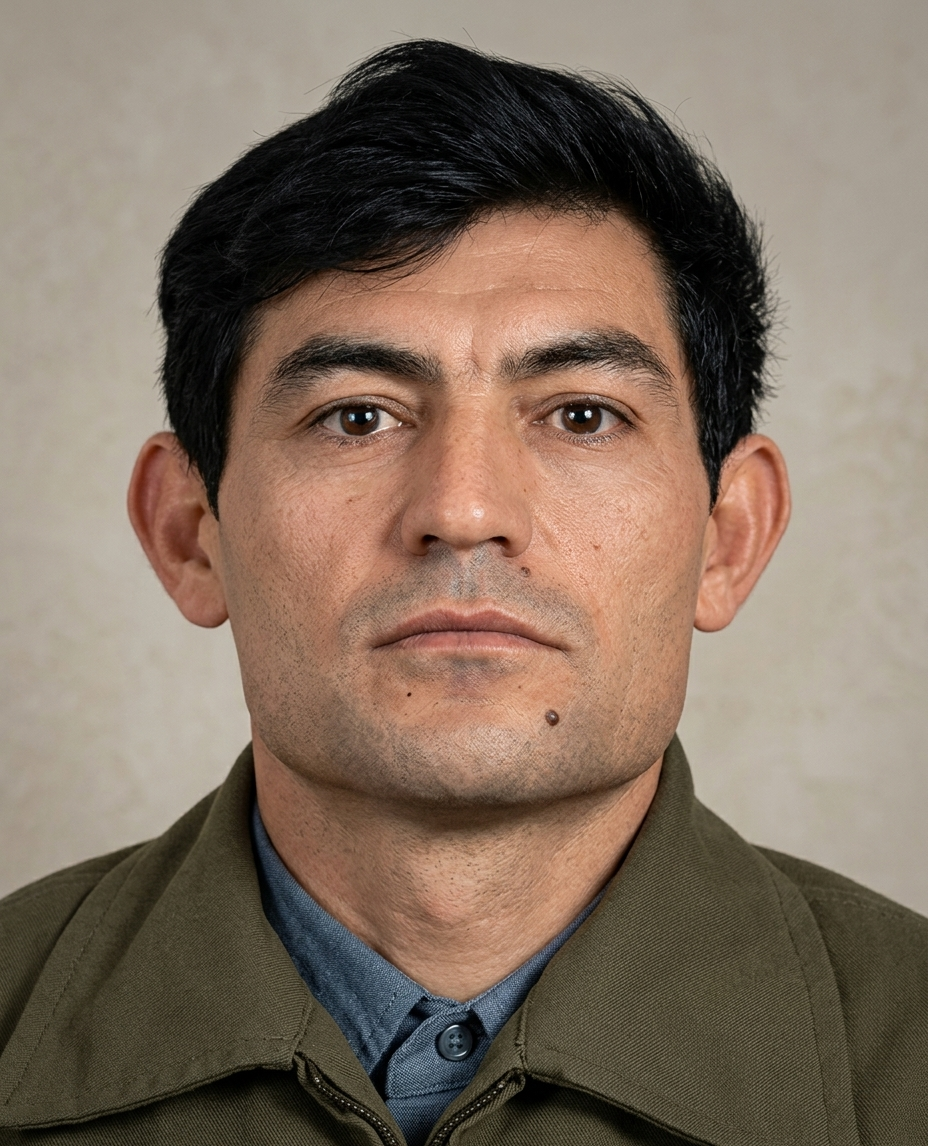
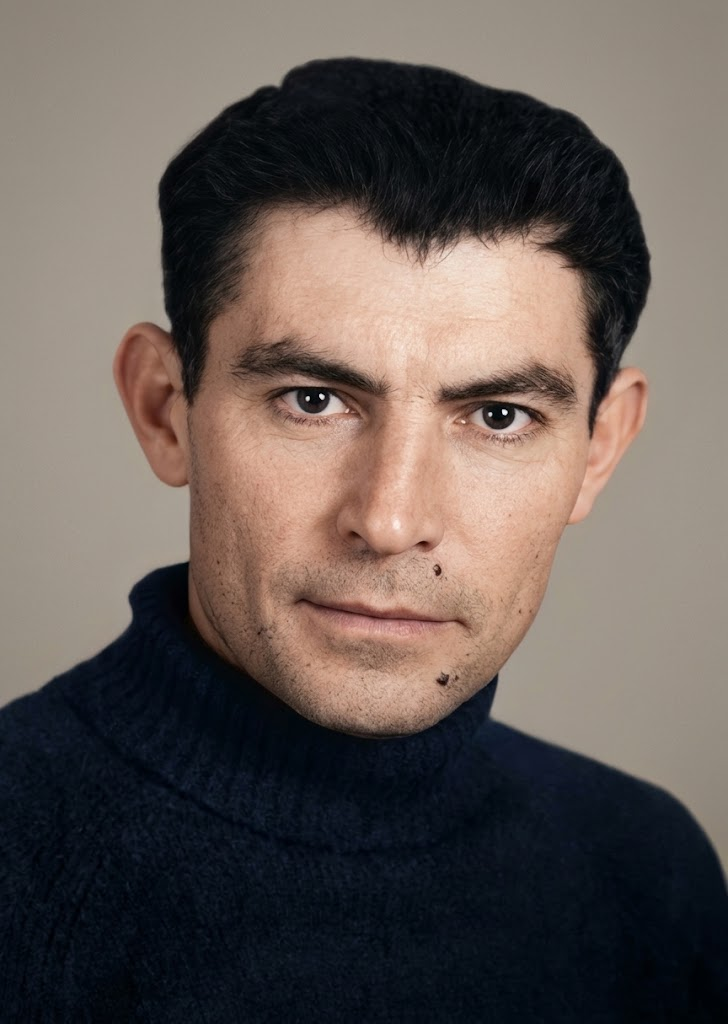
Stus: AI-restored and colorized portrait (fair use, from UINP), log in D6; KGB case-file photos in the story (public domain)

diff --git a/product_vision.md b/product_vision.md
@@ -126,7 +126,7 @@ Code layout: thin routes in `src/pages/{uk,en}/` render shared views in `src/vie
 | 2026-09-29 | D3-R | **Bilingual launch:** a profile is public only when reviewed in uk and en; authoring starts in Ukrainian. |
 | 2026-09-29 | D4 | **One file per person** per language. |
 | 2026-09-29 | D5 | **AI drafts from cited sources + mandatory human review.** 2026-10-07: every new profile is `status: draft` until the owner approves it (sets `status: approved` and `published`, the current time); the New page, badge and RSS sort by that time. |
-| 2026-09-29 | D6 | Images: **public domain or freely licensed (Wikimedia Commons), self-hosted, with attribution**, or written permission. Exception: 8 fair-use portraits (Mykolaichuk, Sukhomlynskyi, Tsybukh, Petrychenko, owner decision 2026-10-05, against the recommendation; 2026-10-06: Ostap Vyshnia, an AI-made image whose source photograph is not identified, and Prymachenko, AI-colorized from the uk.wikipedia fair-use photo; Petro Yatsyk, the uk.wikipedia fair-use photo; Olha Semydianova, the uk.wikipedia fair-use photo; 2026-10-12: Oleh Antonov, the en.wikipedia fair-use photo from the Antonov design bureau, replacing a public-domain 1976 magazine photo; 2026-10-19: Anatolii Bazylevych, AI-colorized from the photo in the Encyclopedia of Modern Ukraine; Oleksandr Smakula, an AI-generated portrait based on the en.wikipedia fair-use photo; Maksym Berezovskyi, an AI-restored 20th-century portrait from the Internet Encyclopedia of Ukraine; Olena Viter, AI-colorized from the photo in a uain.press article; Mykyta Khanhanov, AI-colorized from the photo on the Memorial platform (memorial.ua); Tihran Ohannisian, AI-restored from the photo in an ArmyInform article; Dmytro Apukhtin, AI-restored from the uk.wikipedia fair-use photo; Stanislav Partala, AI-restored from the uk.wikipedia fair-use photo; Mykhailo Chuprin, AI-colorized from the photo on the Memorial platform (memorial.ua); Mykola Hrynko, AI-colorized from the photo in the Encyclopedia of Modern Ukraine; Yurii Tymus, AI-colorized from the photo on the Memorial platform (memorial.ua); Bohdan Kazanivskyi, AI-colorized from the uk.wikipedia fair-use photo; 2026-10-20: Myroslav Popovych, AI-restored from Svitlana Levchenko's 2014 photo for The Ukrainians, owner decision without a permission request; 2026-10-21: Hryhir Tiutiunnyk, AI-colorized from the uk.wikipedia fair-use photo, replacing a CC BY-SA 1979 painted portrait; Yevhen Hutsalo, AI-colorized from the photo in the Encyclopedia of Modern Ukraine; Volodymyr Drozd, AI-colorized from the uk.wikipedia fair-use photo; Iryna Kalynets, AI-restored and colorized from the uk.wikipedia fair-use 1960s photo from the Liberation Movement Research Centre archive; Ihor Kalynets, AI-restored and colorized from the photo in the Kharkiv Human Rights Group's Museum of the Dissident Movement, replacing a CC BY-SA 2007 photo; Fedir Ernst, AI-restored and colorized from the photo in a Ukrainskyi Interes (uain.press) article, replacing a small public-domain photo), marked `fair_use: true`: on the site, and (owner decision 2026-10-17) in the profile's own share cards and social posts, never in structured data, removed the same day on a rights holder's request. AI-colorized or restored versions of a free photo are allowed (`ai_edit:`); the credit keeps the original author, license and source and says so; a result that changes the person's look is not used (owner exceptions, 2026-10-06, against the recommendation: Mechnykov; Dovzhenko, Petliura and Solovianenko, whose AI versions change the face, clothes or insignia and are labelled `rendered`, not a real photograph; Amosov, Kondratiuk, Korolov and Prymachenko, whose faces also changed, labelled colorized at the owner's request; 2026-10-19: Feofan Prokopovych, whose dark beard turned grey, labelled restored at the owner's request). A painting may be rendered as a photo-like image (`ai_edit: rendered`, owner decision 2026-10-06, first: Repin's 1887 self-portrait); its credit says it is not a real photograph. An imagined portrait made by AI from scratch, based on a free source image, is allowed too (`ai_edit: generated`, owner decision 2026-10-12, first: Volodymyr Monomakh, after the 1912 Arkas illustration); its credit keeps the source image and says it is an imagined portrait. |
+| 2026-09-29 | D6 | Images: **public domain or freely licensed (Wikimedia Commons), self-hosted, with attribution**, or written permission. Exception: 8 fair-use portraits (Mykolaichuk, Sukhomlynskyi, Tsybukh, Petrychenko, owner decision 2026-10-05, against the recommendation; 2026-10-06: Ostap Vyshnia, an AI-made image whose source photograph is not identified, and Prymachenko, AI-colorized from the uk.wikipedia fair-use photo; Petro Yatsyk, the uk.wikipedia fair-use photo; Olha Semydianova, the uk.wikipedia fair-use photo; 2026-10-12: Oleh Antonov, the en.wikipedia fair-use photo from the Antonov design bureau, replacing a public-domain 1976 magazine photo; 2026-10-19: Anatolii Bazylevych, AI-colorized from the photo in the Encyclopedia of Modern Ukraine; Oleksandr Smakula, an AI-generated portrait based on the en.wikipedia fair-use photo; Maksym Berezovskyi, an AI-restored 20th-century portrait from the Internet Encyclopedia of Ukraine; Olena Viter, AI-colorized from the photo in a uain.press article; Mykyta Khanhanov, AI-colorized from the photo on the Memorial platform (memorial.ua); Tihran Ohannisian, AI-restored from the photo in an ArmyInform article; Dmytro Apukhtin, AI-restored from the uk.wikipedia fair-use photo; Stanislav Partala, AI-restored from the uk.wikipedia fair-use photo; Mykhailo Chuprin, AI-colorized from the photo on the Memorial platform (memorial.ua); Mykola Hrynko, AI-colorized from the photo in the Encyclopedia of Modern Ukraine; Yurii Tymus, AI-colorized from the photo on the Memorial platform (memorial.ua); Bohdan Kazanivskyi, AI-colorized from the uk.wikipedia fair-use photo; 2026-10-20: Myroslav Popovych, AI-restored from Svitlana Levchenko's 2014 photo for The Ukrainians, owner decision without a permission request; 2026-10-21: Hryhir Tiutiunnyk, AI-colorized from the uk.wikipedia fair-use photo, replacing a CC BY-SA 1979 painted portrait; Yevhen Hutsalo, AI-colorized from the photo in the Encyclopedia of Modern Ukraine; Volodymyr Drozd, AI-colorized from the uk.wikipedia fair-use photo; Iryna Kalynets, AI-restored and colorized from the uk.wikipedia fair-use 1960s photo from the Liberation Movement Research Centre archive; Ihor Kalynets, AI-restored and colorized from the photo in the Kharkiv Human Rights Group's Museum of the Dissident Movement, replacing a CC BY-SA 2007 photo; Fedir Ernst, AI-restored and colorized from the photo in a Ukrainskyi Interes (uain.press) article, replacing a small public-domain photo; Vasyl Stus, AI-restored and colorized from the photo on the Ukrainian Institute of National Memory site, replacing the public-domain KGB case-file photo, which moved into the story), marked `fair_use: true`: on the site, and (owner decision 2026-10-17) in the profile's own share cards and social posts, never in structured data, removed the same day on a rights holder's request. AI-colorized or restored versions of a free photo are allowed (`ai_edit:`); the credit keeps the original author, license and source and says so; a result that changes the person's look is not used (owner exceptions, 2026-10-06, against the recommendation: Mechnykov; Dovzhenko, Petliura and Solovianenko, whose AI versions change the face, clothes or insignia and are labelled `rendered`, not a real photograph; Amosov, Kondratiuk, Korolov and Prymachenko, whose faces also changed, labelled colorized at the owner's request; 2026-10-19: Feofan Prokopovych, whose dark beard turned grey, labelled restored at the owner's request). A painting may be rendered as a photo-like image (`ai_edit: rendered`, owner decision 2026-10-06, first: Repin's 1887 self-portrait); its credit says it is not a real photograph. An imagined portrait made by AI from scratch, based on a free source image, is allowed too (`ai_edit: generated`, owner decision 2026-10-12, first: Volodymyr Monomakh, after the 1912 Arkas illustration); its credit keeps the source image and says it is an imagined portrait. |
 | 2026-09-29 | D7 | Hosting: **Cloudflare Pages**, deployed by GitHub Actions from a personal GitHub account. |
 | 2026-09-29 | D8 | **Living people may be included** (§7.6). |
 | 2026-09-29 | D10 | Search: **simple, client-side**. |

diff --git a/src/content/people/uk/vasyl-stus.md b/src/content/people/uk/vasyl-stus.md
@@ -16,11 +16,13 @@ misconception:
 birthplace: { name: "Рахнівка", region: vinnytsia, country: UA, lat: 48.783, lon: 29.546 }
 image:
   src: ./images/vasyl-stus.jpg
-  alt: "Фото Василя Стуса з кримінальної справи КДБ, 1980"
-  author: "Official KGB photo from Stus file after arrest 1972"
-  license: "Public domain"
+  alt: "Василь Стус із темним зачесаним волоссям, у темно-синьому светрі з високим коміром"
+  position: "50% 30%"
+  author: "Невідомий автор"
+  license: "Fair use"
+  source_url: "https://uinp.gov.ua/istorychnyy-kalendar/veresen/4/1985-zagynuv-vasyl-stus-poet"
   ai_edit: colorized
-  source_url: "https://commons.wikimedia.org/wiki/File:Stus_KGB_photo_1980_(cropped).jpg"
+  fair_use: true
 key_accomplishments:
   - Збірки «Зимові дерева», «Свіча в свічаді», «Палімпсести»
   - Публічний протест проти арештів української інтелігенції (1965)
@@ -29,6 +31,14 @@ key_accomplishments:
 quotes:
   - text: "Мій народ іде крізь муки і страждання, але він буде жити, бо в нього є душа"
     source: "Цей вислів часто зустрічається в документальних та біографічних матеріалах про поета, зокрема в його епістолярній спадщині"
+gallery:
+  - src: ./images/vasyl-stus-kgb.jpg
+    alt: "Дві чорно-білі фотографії Василя Стуса з кримінальної справи - у профіль і анфас - у темній куртці; внизу підпис «Стус Василий Семёнович, 1938»"
+    caption: "Фотографії Василя Стуса з його справи в КДБ"
+    section: 3
+    author: "Невідомий автор (КДБ)"
+    license: "Public domain"
+    source_url: "https://uk.wikipedia.org/wiki/Файл:Stus_KGB_photo_1980.jpg"
 sources:
   - title: "Енциклопедія історії України - Стус Василь Семенович"
     url: "https://resource.history.org.ua/cgi-bin/eiu/history.exe?I21DBN=EIU&P21DBN=EIU&S21STN=1&S21REF=10&S21FMT=eiu_all&C21COM=S&S21CNR=20&S21P01=0&S21P02=0&S21P03=TRN%3D&S21COLORTERMS=0&S21STR=Stus_V"

diff --git a/src/content/people/en/vasyl-stus.md b/src/content/people/en/vasyl-stus.md
@@ -13,10 +13,13 @@ key_accomplishments:
   - "Member of the Ukrainian Helsinki Group"
   - "Posthumously awarded the title Hero of Ukraine (2005)"
 birthplace_name: "Rakhnivka"
-image_alt: "KGB case-file photograph of Vasyl Stus, 1980"
+image_alt: "Vasyl Stus with dark swept-back hair, in a navy turtleneck sweater"
 quotes:
   - text: "My people are going through torment and suffering, but they will live, because they have a soul"
     source: "A saying often found in documentary and biographical materials about the poet, including his letters"
+gallery:
+  - alt: "Two black-and-white photographs of Vasyl Stus from his criminal file, in profile and full face, in a dark jacket, with his name and year of birth written in Russian below"
+    caption: "Photographs of Vasyl Stus from his KGB file"
 ---
 
 ## 600 poems we will never read
